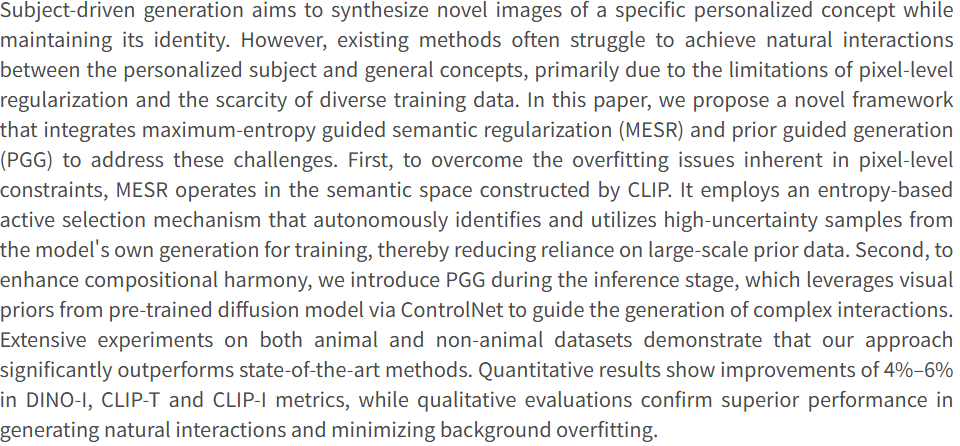
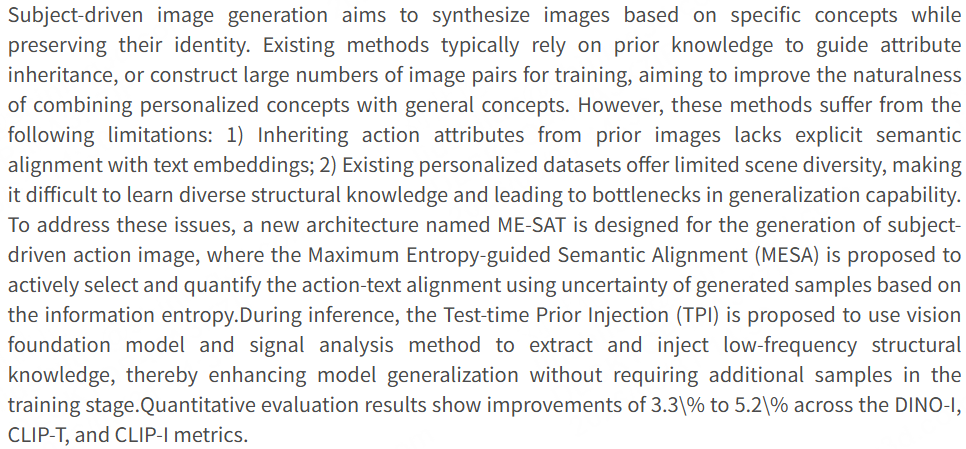
2026-3-31 14:37

diff --git a/ME-SAT.html b/ME-SAT.html
@@ -1,7 +1,7 @@
 <!DOCTYPE html>
 <html>
 <head>
-  <title>Maximum-Entropy Guided Semantic Regularization for Subject-Driven Image Generation</title>
+  <title>ME-SAT</title>
 
   <link rel="stylesheet" href="./static/css/bulma.min.css">
   <link rel="stylesheet" href="./static/css/bulma-carousel.min.css">
@@ -22,40 +22,14 @@
     <div class="container is-max-desktop">
       <div class="columns is-centered">
         <div class="column has-text-centered">
-          <h1 class="title is-1 publication-title">Maximum-Entropy Guided Semantic Regularization for Subject-Driven Image Generation</h1>
-          <div class="is-size-5 publication-authors">
-	   <div class="author-block" style="display: inline-block; width: 20%; vertical-align: top; margin: 1.66%;">
-                <span class="author-name-block">Shilun Liu</span><br>
-                <span class="author-school-block">Zhejiang Gongshang University</span>
-              </div>
-            <div class="author-block" style="display: inline-block; width: 20%; vertical-align: top; margin: 1.66%;">
-                <span class="author-name-block">Yan Tian</span><br>
-                <span class="author-school-block">Zhejiang Gongshang University</span>
-              </div>
-	<div class="author-block" style="display: inline-block; width: 20%; vertical-align: top; margin: 1.66%;">
-                <span class="author-name-block">Ruili Wang</span><br>
-                <span class="author-school-block">Massey University</span>
-              </div>
-	<div class="author-block" style="display: inline-block; width: 25%; vertical-align: top; margin: 1.66%;">
-                <span class="author-name-block">Mahmoud Hassaballah</span><br>
-                <span class="author-school-block">Prince Sattam Bin Abdulaziz University</span>
-              </div>
-	<div class="author-block" style="display: inline-block; width: 20%; vertical-align: top; margin: 1.66%;">
-                <span class="author-name-block">Karen Egiazarian</span><br>
-                <span class="author-school-block">Tampere University</span>
-              </div>
-	<div class="author-block" style="display: inline-block; width: 20%; vertical-align: top; margin: 1.66%;">
-                <span class="author-name-block">Leszek Rutkowski</span><br>
-                <span class="author-school-block">AGH University</span>
-              </div>
-          </div>
+          <h1 class="title is-1 publication-title">ME-SAT: Maximum-Entropy Guided Semantic Alignment and Test-time Prior Injection for Subject-Driven Generation</h1>
 
 
           <div class="column has-text-centered">
             <div class="publication-links">
               <!-- PDF Link. -->
               <span class="link-block">
-                <a href="https://faith643.github.io/MESR"
+                <a href="https://faith643.github.io/ME-SAT"
                    class="external-link button is-normal is-rounded is-dark">
                   <span class="icon">
                       <i class="fas fa-file-pdf"></i>
@@ -65,7 +39,7 @@
               </span>
               <!-- Code Link. -->
               <span class="link-block">
-                <a href="https://faith643.github.io/MESR"
+                <a href="https://faith643.github.io/ME-SAT"
                    class="external-link button is-normal is-rounded is-dark">
                   <span class="icon">
                       <i class="fab fa-github"></i>
